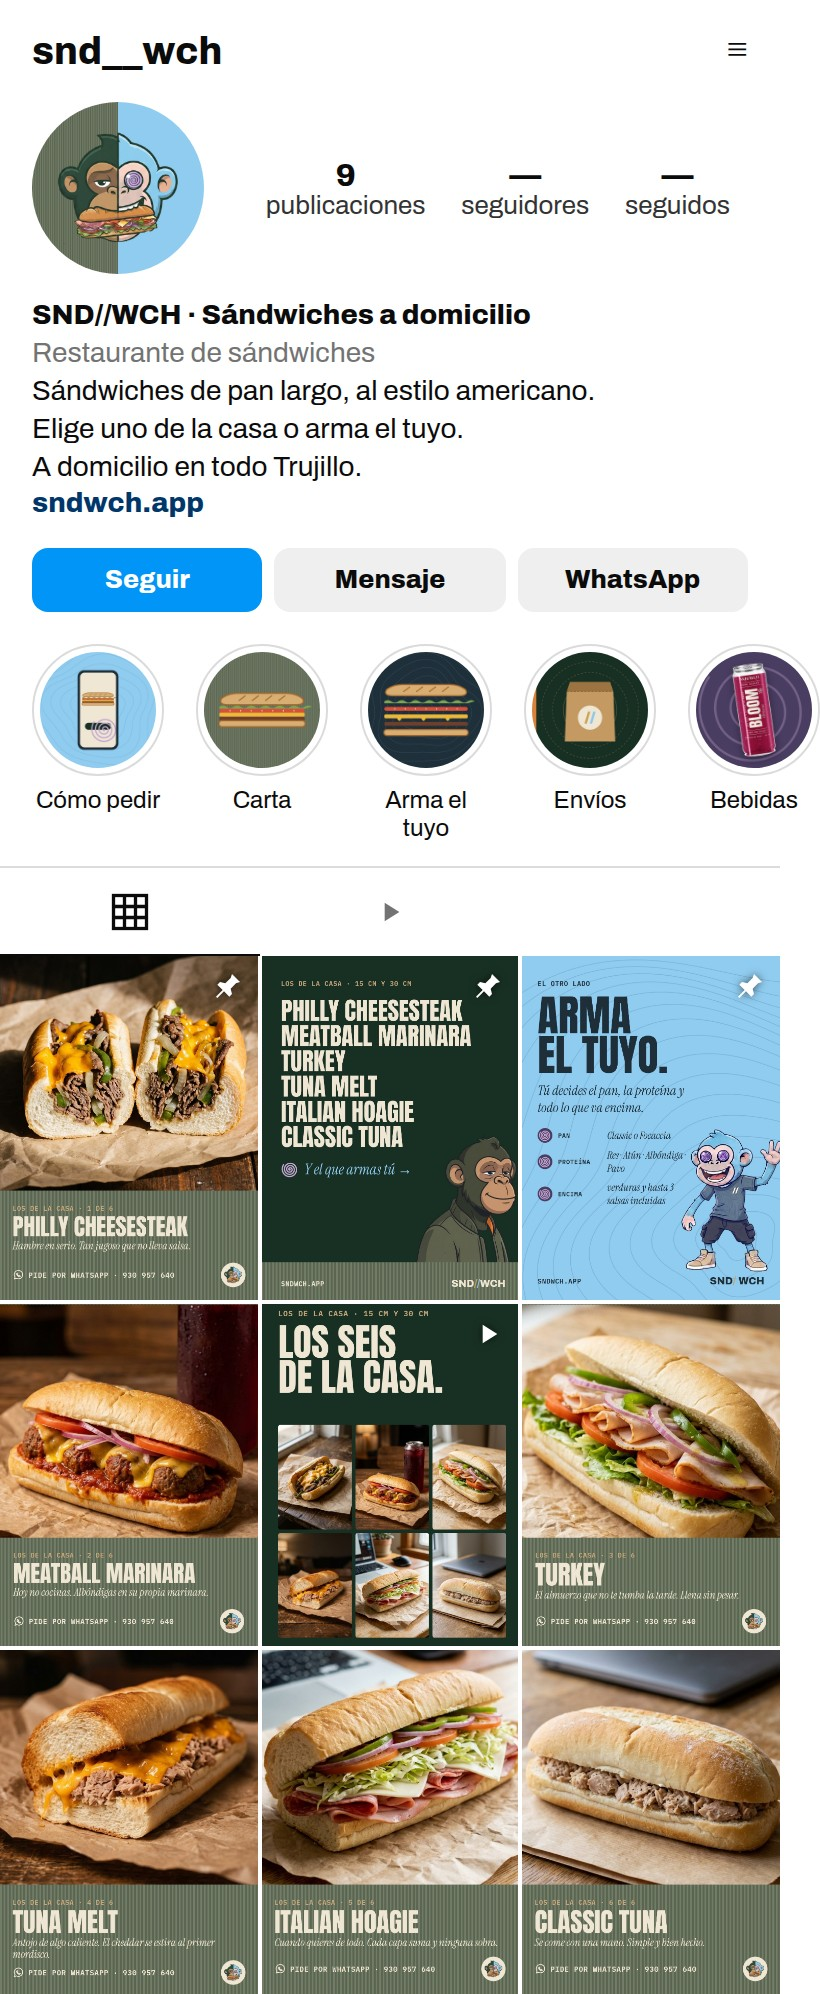
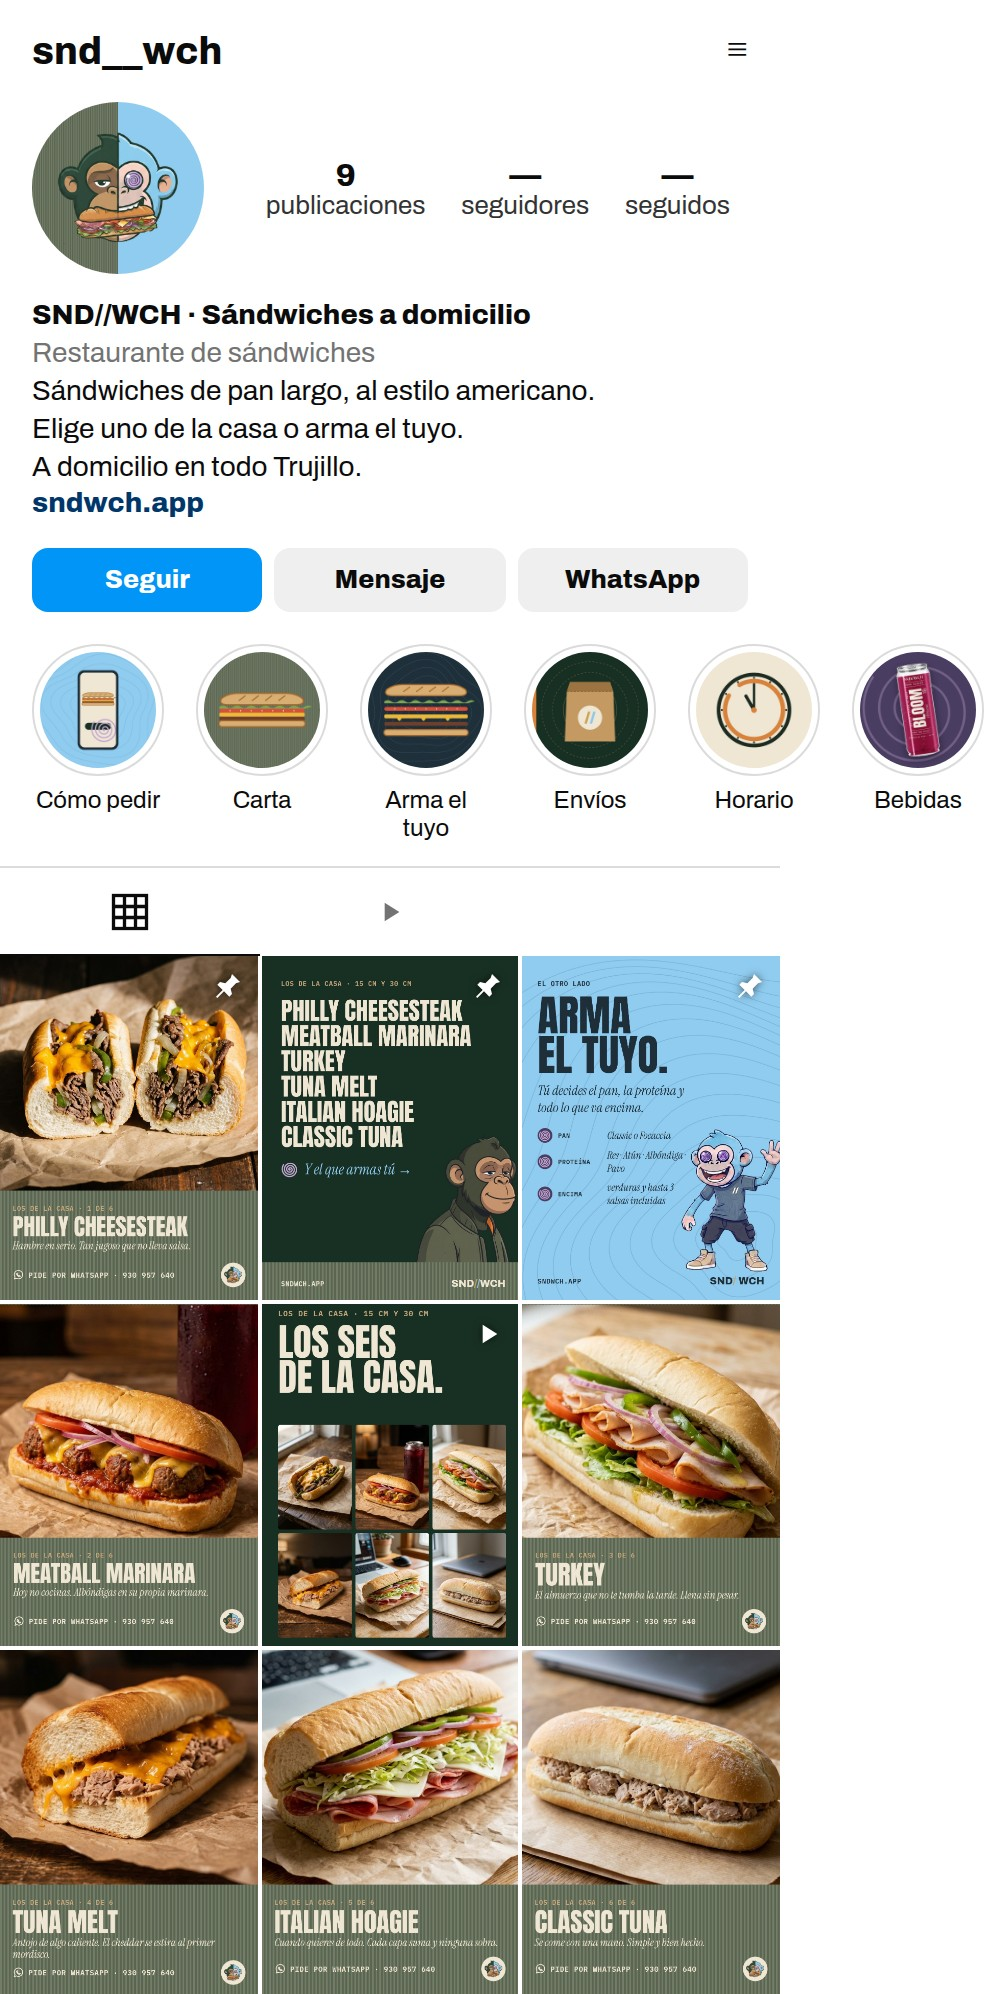
Instagram: Horario como destacado propio (6 destacados)
Dueño: «Hay que separar horario y envío»; eligió «Horario como destacado propio».

Claude-Session: https://claude.ai/code/session_01NCVgixMFGDjTdiWThGTz7g

diff --git a/docs/marketing/instagram-perfil/final/LEEME.md b/docs/marketing/instagram-perfil/final/LEEME.md
@@ -25,17 +25,18 @@ Quien entra entiende en segundos que puede elegir uno de la casa o armar el suyo
 | Botones | Mensaje y WhatsApp | El peruano compra más por WhatsApp que por otras redes (Ipsos Perú) |
 
 **Destacados, en el orden en que un cliente nuevo duda** (actualizado el 2026-10-30; dueño: «la de zonas no me convence,
-además como que falta destacado»). Instagram muestra unos cinco sin deslizar:
+además como que falta destacado»). Instagram muestra unos cinco sin deslizar; el sexto se ve al deslizar:
 1. **Cómo pedir** (WICHO): los 4 pasos.
 2. **Carta** (SANDO): los seis Signatures.
 3. **Arma el tuyo** (WICHO, en su tinta): el pan, la proteína y lo de encima. Es la otra mitad del concepto y faltaba.
-4. **Envíos** (SANDO, sin su cara, para no repetir la portada de Carta): todo Trujillo, el envío según la distancia
-   con una boleta sin cifras, y el horario, que sale de `STORE_HOURS`: martes a domingo, 11:00 a 22:00.
-5. **Bebidas** (WICHO): las de la casa, con «Próximamente».
+4. **Envíos** (la bolsa kraft con el //): todo Trujillo, y el envío según la distancia con una boleta sin cifras.
+5. **Horario** (un reloj en las 11 con el arco hasta las 22), separado de Envíos por pedido del dueño («Horario como
+   destacado propio»): la semana, con el lunes de descanso. Sale de `STORE_HOURS`.
+6. **Bebidas** (la lata): las de la casa, con «Próximamente».
 
 **Las portadas y las historias, sin personajes: «un sándwich es capas»** (2026-10-30, dueño: «No necesitas usar a SANDO
 y WICHO para todo, solo estás usando lo que ya tienes, sé creativo»). Se dibujan con objetos planos del mundo del
-sándwich (`dibujos.cjs`), siempre de pan largo y nunca como hamburguesa:
+sándwich (las funciones de dibujo van al inicio de `final.cjs` e `historias.cjs`), siempre de pan largo y nunca como hamburguesa:
 - Cómo pedir: el celular con un toque.
 - Carta: el sándwich cerrado.
 - Arma el tuyo: las capas sueltas.
@@ -116,7 +117,8 @@ Un destacado se arma con historias publicadas. Cada uno vive en el mundo de su h
 
 | destacado | historias | sale |
 |---|---|---|
-| Envíos | 3: todo Trujillo, el envío por distancia y el horario | ya |
+| Envíos | 2: todo Trujillo y el envío por distancia | ya |
+| Horario | 1: la semana, con el lunes de descanso | ya |
 | Arma el tuyo | 3: el pan, la proteína y lo de encima | ya |
 | Carta | 6: un Signature por historia | ya |
 | Cómo pedir | 4: los pasos | ya (dueño: «Quítale el próximamente, solo las bebidas deben tener el próximamente») |

diff --git a/docs/sesiones/2026-10-30.md b/docs/sesiones/2026-10-30.md
@@ -55,3 +55,5 @@
   3 historias (alcance, envío por distancia y horario). El dueño ya subió «Cómo pedir».
 - Portadas e historias sin personajes («un sándwich es capas», `dibujos.cjs`). También se dibujaron de nuevo las
   4 de Cómo pedir, por si el dueño quiere cambiar las que ya subió.
+- Horario pasó a destacado propio (dueño: «Horario como destacado propio»): quedan 6. El dueño pidió no tocar más el
+  diseño («Los cambios de diseño»: parar); las fotos de los 5 sándwiches siguen para esta noche.
